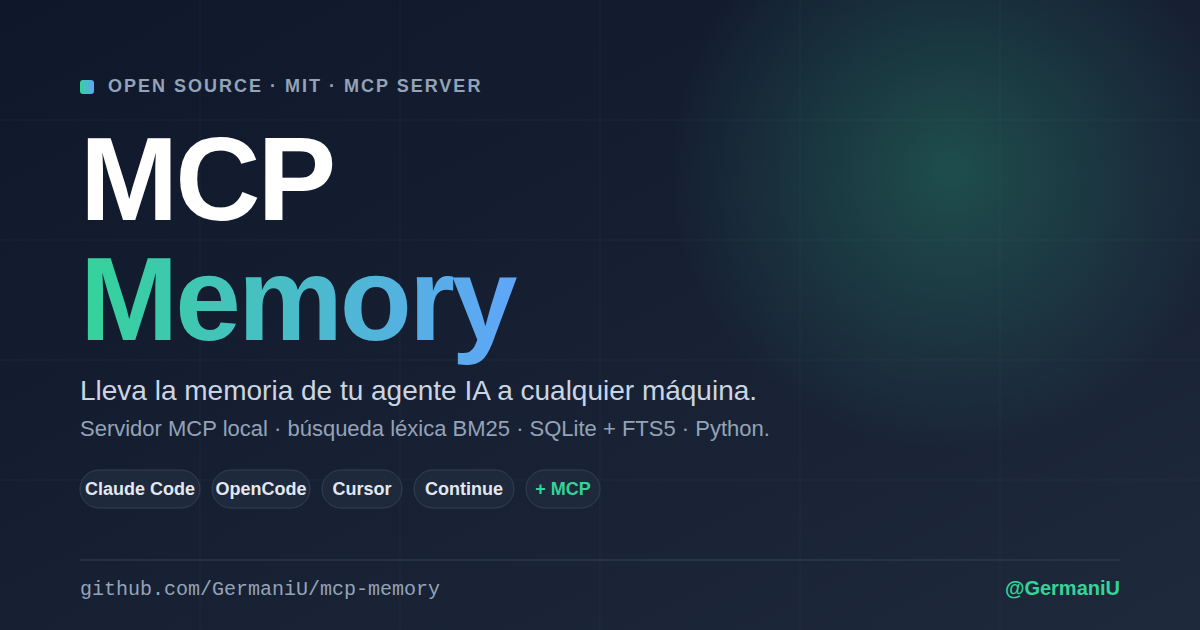
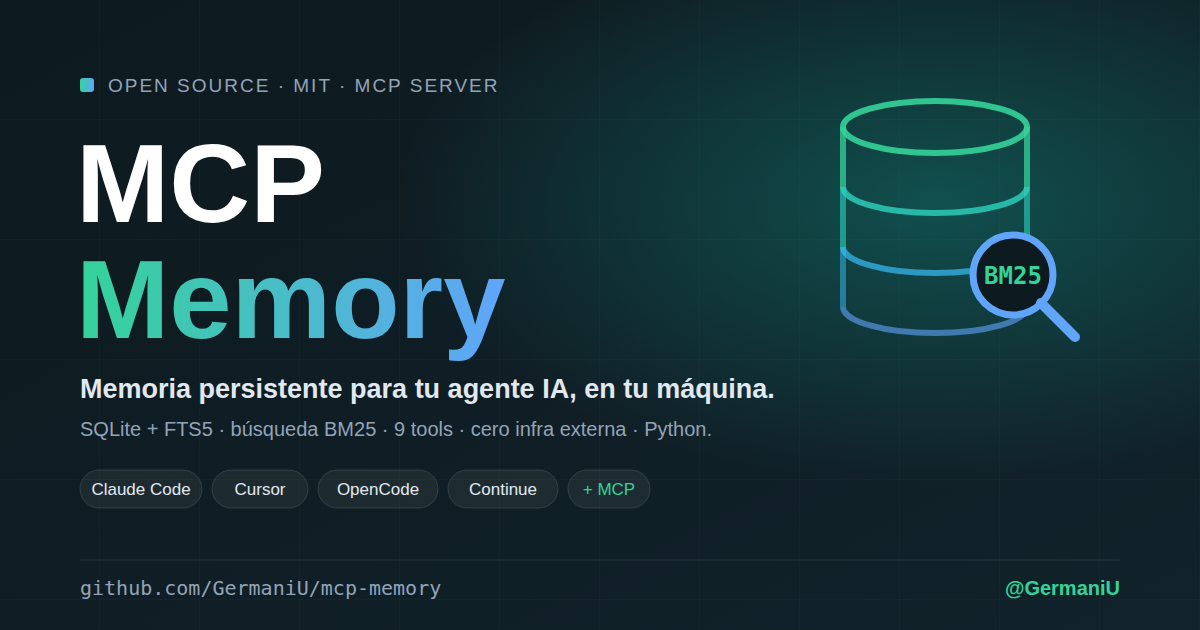
docs: rediseñar la imagen de portada del README
Icono propio (base de datos + lupa BM25), texto acorde al backend
SQLite + FTS5 y mismo estilo visual que tor-mcp-proxy.

Claude-Session: https://claude.ai/code/session_01WDbs1JAVVWuTe85DhuadG6

diff --git a/CHANGELOG.md b/CHANGELOG.md
@@ -8,7 +8,8 @@ El formato sigue [Keep a Changelog](https://keepachangelog.com/es-ES/1.1.0/) y e
 
 ## [Unreleased]
 
-_Nada todavía._
+### Changed
+- Imagen de portada (`docs/assets/og-image.png`/`.svg`) rediseñada: icono de base de datos con búsqueda BM25, texto acorde al backend actual (SQLite + FTS5) y mismo estilo que tor-mcp-proxy.
 
 ---
 
